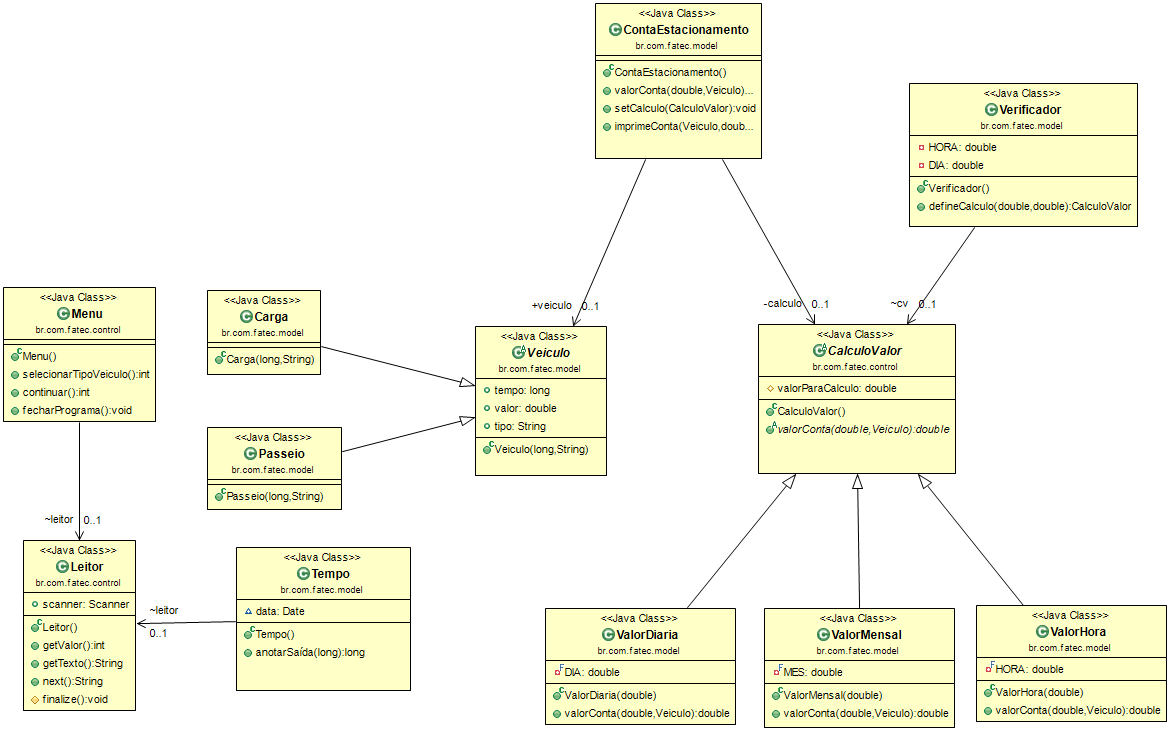
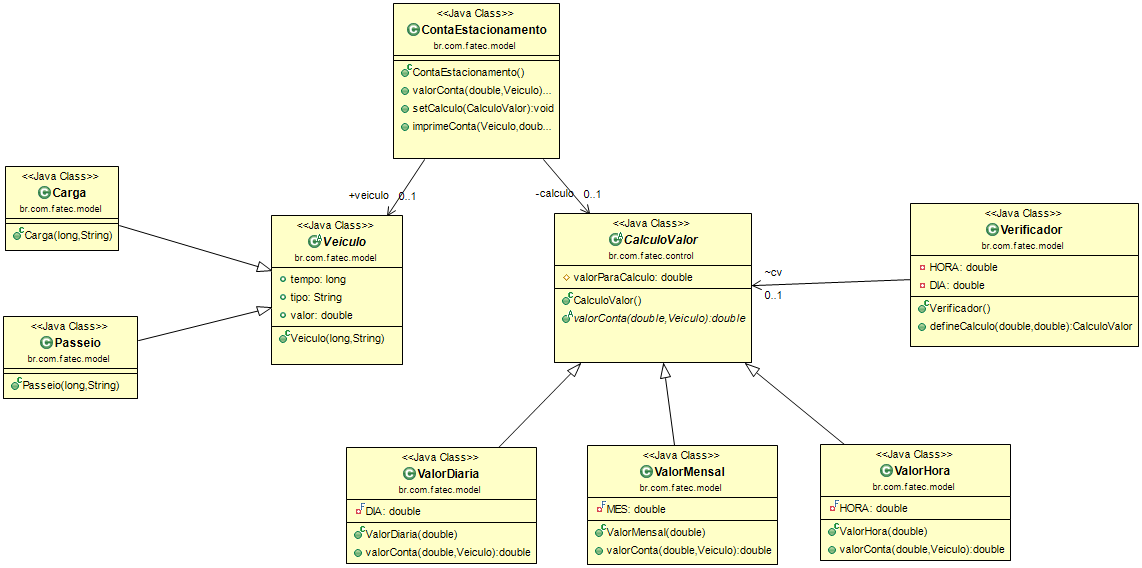
refatoração do código

diff --git a/src/br/com/fatec/model/ContaEstacionamento.java b/src/br/com/fatec/model/ContaEstacionamento.java
@@ -20,7 +20,7 @@ public class ContaEstacionamento {
 	public void imprimeConta(Veiculo veiculo, double tempoTotal) {
     
 	  long ms = (long) tempoTotal;
-  	String tempo = String.format("%2d", (ms / 3600000) + 4);
+  	  String tempo = String.format("%2d", (ms / 3600000) + 4);
 
 	  double valor = veiculo.valor;
 

diff --git a/src/br/com/fatec/model/Veiculo.java b/src/br/com/fatec/model/Veiculo.java
@@ -3,7 +3,7 @@ package br.com.fatec.model;
 public abstract class Veiculo {
 	
 	public long tempo;
-	public String tipo = "";
+	public String tipo;
 	public double valor;
 	
 	
